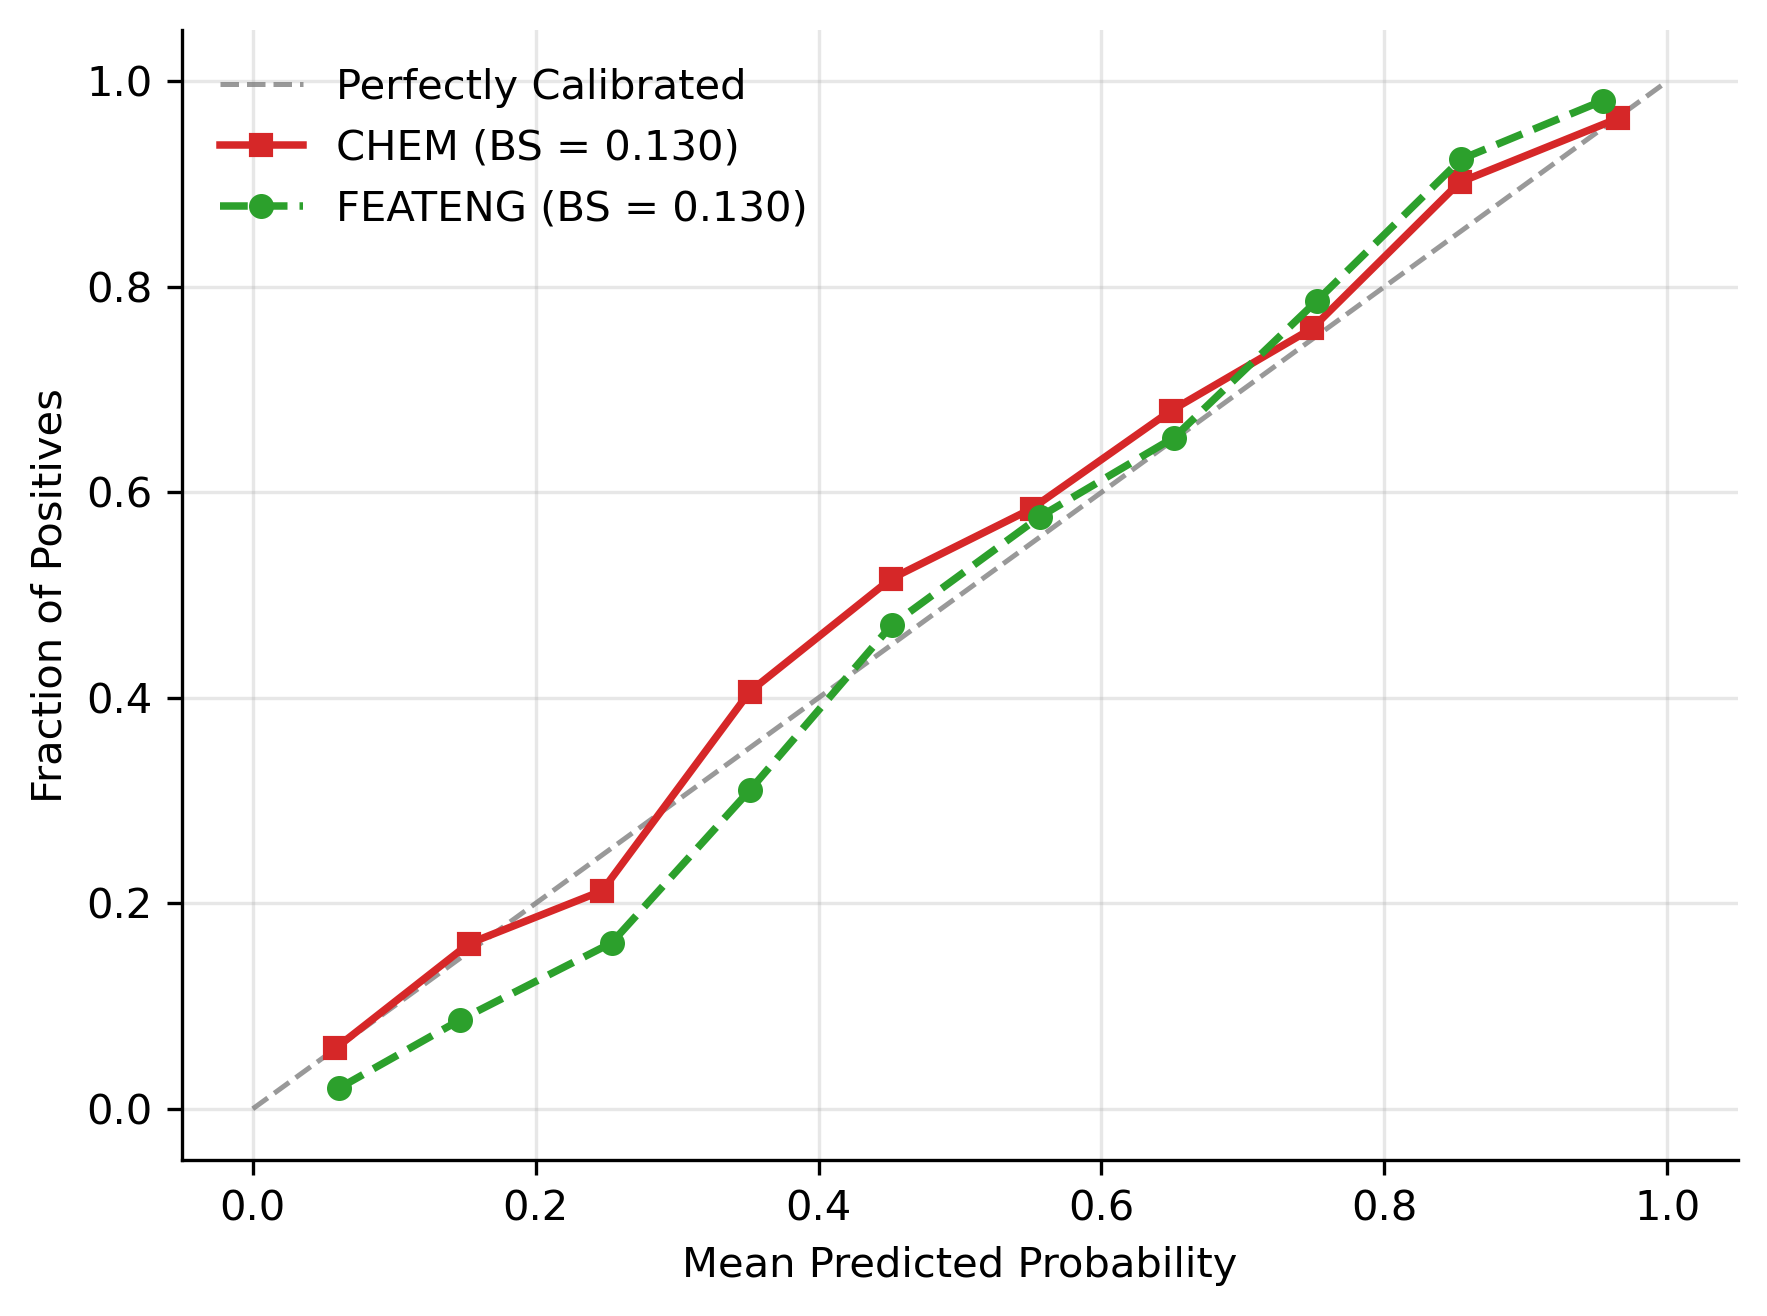
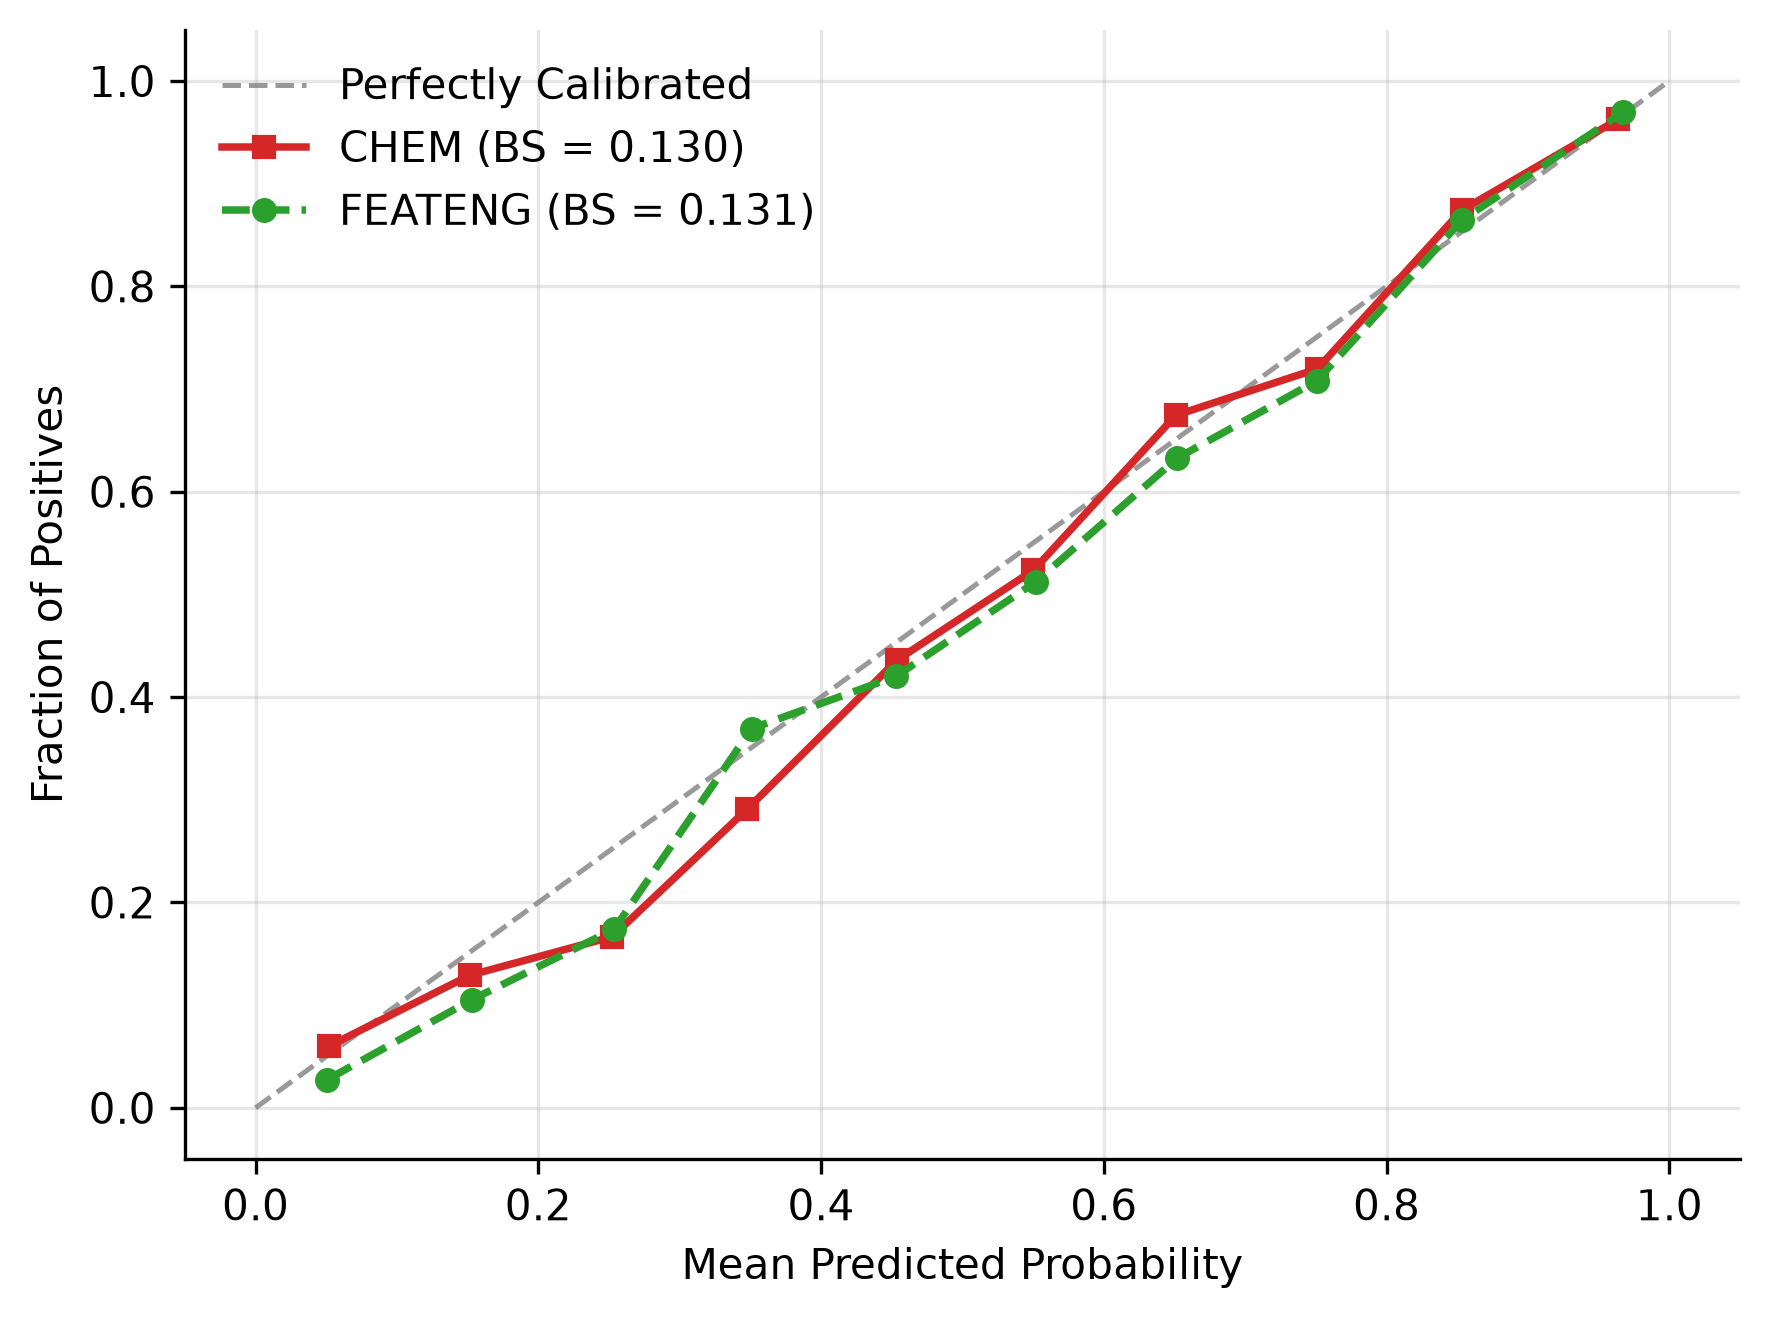
update files after peer review

Changed region(s): [[0.0, 0.0312, 0.996, 0.9658], [0.1556, 0.0623, 0.9338, 0.8412]]

diff --git a/notebooks/8_auc_calibration_plots.py b/notebooks/8_auc_calibration_plots.py
@@ -66,10 +66,10 @@ def compute_ece(y_true, y_prob, n_bins=10):
 #                                     CHEM                                    #
 ###############################################################################
 
-# str = f"./../src/hyperparameters_tunning/GFA_binary_CHEM/model/best_model_binary_unimodal_RF_f1_score_macro_2000_TPESampler.pkl"
-
 model_path_chem = f"./../src/hyperparameters_tunning/GFA_binary_CHEM/model/calibrated_model_binary_unimodal_RF_f1_score_macro_2000_TPESampler.pkl"
+
 if not os.path.exists(model_path_chem):
+    print("Using non-calibrated CHEM model")
     model_path_chem = f"./../src/hyperparameters_tunning/GFA_binary_CHEM/model/best_model_binary_unimodal_RF_f1_score_macro_2000_TPESampler.pkl"
 
 df = pd.read_pickle("./../data/processed/GFA_binary_CHEM.pkl.zip", compression="zip")
@@ -111,7 +111,9 @@ print(f"ECE CHEM test: {ece}")
 ###############################################################################
 
 model_path_feateng = f"./../src/hyperparameters_tunning/GFA_binary_FEATENG/model/calibrated_model_binary_unimodal_RF_f1_score_macro_2000_TPESampler.pkl"
+
 if not os.path.exists(model_path_feateng):
+    print("Using non-calibrated FEATENG model")
     model_path_feateng = f"./../src/hyperparameters_tunning/GFA_binary_FEATENG/model/best_model_binary_unimodal_RF_f1_score_macro_2000_TPESampler.pkl"
 
 df = pd.read_pickle("./../data/processed/GFA_binary_FEATENG.pkl.zip", compression="zip")
@@ -169,7 +171,9 @@ models_data = {
     "FEATENG": y_pred_proba_feateng,
 }
 
-y_test_array = y_test.values.ravel() if hasattr(y_test, "values") else np.asarray(y_test).ravel()
+y_test_array = (
+    y_test.values.ravel() if hasattr(y_test, "values") else np.asarray(y_test).ravel()
+)
 baseline_pos = float(np.mean(y_test_array == 1))
 baseline_neg = float(np.mean(y_test_array == 0))
 baseline_macro = 0.5
@@ -222,11 +226,23 @@ for (name, y_proba), color, ls in zip(models_data.items(), colors, linestyles):
     else:
         y_score_pos = y_proba.ravel()
 
-    precision_pos, recall_pos, _ = precision_recall_curve(y_test_array, y_score_pos, pos_label=1)
+    precision_pos, recall_pos, _ = precision_recall_curve(
+        y_test_array, y_score_pos, pos_label=1
+    )
     ap_pos = average_precision_score(y_test_array, y_score_pos, pos_label=1)
-    ax2.plot(recall_pos, precision_pos, color=color, linestyle=ls, lw=2, label=f"{name}")
+    ax2.plot(
+        recall_pos, precision_pos, color=color, linestyle=ls, lw=2, label=f"{name}"
+    )
 
-ax2.plot([0, 1], [baseline_pos, baseline_pos], color="gray", linestyle="--", lw=1.2, alpha=0.8, label="DUMMY")
+ax2.plot(
+    [0, 1],
+    [baseline_pos, baseline_pos],
+    color="gray",
+    linestyle="--",
+    lw=1.2,
+    alpha=0.8,
+    label="DUMMY",
+)
 ax2.set_xlim([-0.02, 1.02])
 ax2.set_ylim([0.0, 1.05])
 ax2.set_xlabel("Recall")
@@ -253,11 +269,23 @@ for (name, y_proba), color, ls in zip(models_data.items(), colors, linestyles):
     else:
         y_score_neg = 1.0 - y_proba.ravel()
 
-    precision_neg, recall_neg, _ = precision_recall_curve(y_test_array == 0, y_score_neg)
+    precision_neg, recall_neg, _ = precision_recall_curve(
+        y_test_array == 0, y_score_neg
+    )
     ap_neg = average_precision_score(y_test_array == 0, y_score_neg)
-    ax3.plot(recall_neg, precision_neg, color=color, linestyle=ls, lw=2, label=f"{name}")
+    ax3.plot(
+        recall_neg, precision_neg, color=color, linestyle=ls, lw=2, label=f"{name}"
+    )
 
-ax3.plot([0, 1], [baseline_neg, baseline_neg], color="gray", linestyle="--", lw=1.2, alpha=0.8, label="DUMMY")
+ax3.plot(
+    [0, 1],
+    [baseline_neg, baseline_neg],
+    color="gray",
+    linestyle="--",
+    lw=1.2,
+    alpha=0.8,
+    label="DUMMY",
+)
 ax3.set_xlim([-0.02, 1.02])
 ax3.set_ylim([0.0, 1.05])
 ax3.set_xlabel("Recall")
@@ -287,8 +315,12 @@ for (name, y_proba), color, ls in zip(models_data.items(), colors, linestyles):
         y_score_pos = y_proba.ravel()
         y_score_neg = 1.0 - y_proba.ravel()
 
-    precision_pos, recall_pos, _ = precision_recall_curve(y_test_array, y_score_pos, pos_label=1)
-    precision_neg, recall_neg, _ = precision_recall_curve(y_test_array == 0, y_score_neg)
+    precision_pos, recall_pos, _ = precision_recall_curve(
+        y_test_array, y_score_pos, pos_label=1
+    )
+    precision_neg, recall_neg, _ = precision_recall_curve(
+        y_test_array == 0, y_score_neg
+    )
 
     ap_pos = average_precision_score(y_test_array, y_score_pos, pos_label=1)
     ap_neg = average_precision_score(y_test_array == 0, y_score_neg)
@@ -298,9 +330,19 @@ for (name, y_proba), color, ls in zip(models_data.items(), colors, linestyles):
     interp_neg = np.interp(recall_grid, recall_neg[::-1], precision_neg[::-1])
     precision_macro = (interp_pos + interp_neg) / 2.0
 
-    ax4.plot(recall_grid, precision_macro, color=color, linestyle=ls, lw=2, label=f"{name}")
+    ax4.plot(
+        recall_grid, precision_macro, color=color, linestyle=ls, lw=2, label=f"{name}"
+    )
 
-ax4.plot([0, 1], [baseline_macro, baseline_macro], color="gray", linestyle="--", lw=1.2, alpha=0.8, label="DUMMY")
+ax4.plot(
+    [0, 1],
+    [baseline_macro, baseline_macro],
+    color="gray",
+    linestyle="--",
+    lw=1.2,
+    alpha=0.8,
+    label="DUMMY",
+)
 ax4.set_xlim([-0.02, 1.02])
 ax4.set_ylim([0.0, 1.05])
 ax4.set_xlabel("Recall")
@@ -323,7 +365,9 @@ ax4.text(
 plt.tight_layout()
 plt.savefig("model_comparison_curves.png", dpi=300, bbox_inches="tight")
 if os.path.exists("./../reports/figures"):
-    plt.savefig("./../reports/figures/model_comparison_curves.png", dpi=300, bbox_inches="tight")
+    plt.savefig(
+        "./../reports/figures/model_comparison_curves.png", dpi=300, bbox_inches="tight"
+    )
 plt.close()
 
 
@@ -391,5 +435,7 @@ ax.spines["right"].set_visible(False)
 plt.tight_layout()
 plt.savefig("calibration_curve.png", dpi=300, bbox_inches="tight")
 if os.path.exists("./../reports/figures"):
-    plt.savefig("./../reports/figures/calibration_curve.png", dpi=300, bbox_inches="tight")
+    plt.savefig(
+        "./../reports/figures/calibration_curve.png", dpi=300, bbox_inches="tight"
+    )
 plt.close()

diff --git a/src/hyperparameters_tunning/GFA_binary_CHEM/glass_formation_unimodal_CV_RF.py b/src/hyperparameters_tunning/GFA_binary_CHEM/glass_formation_unimodal_CV_RF.py
@@ -15,6 +15,7 @@ from optuna import Trial, create_study
 from sklearn.calibration import CalibratedClassifierCV, calibration_curve
 from sklearn.dummy import DummyClassifier
 from sklearn.ensemble import RandomForestClassifier
+from sklearn.model_selection import StratifiedKFold
 from sklearn.metrics import (
     accuracy_score,
     average_precision_score,
@@ -186,6 +187,7 @@ MAIN_METRIC_SCORE = f1_score
 # MAIN_METRIC_CV = 'f1_macro'
 OPTIMIZER = "TPESampler"  # 'RandomSampler' # 'TPESampler' # 'CmaEsSampler' # 'NSGAIISampler' # 'GridSampler' # 'RandomSampler' # 'TPESampler'
 
+TRAIN_FINAL_MODEL = True
 # TIME_LIMIT_TRIAL = 10 * 60 # 10 min
 
 
@@ -502,6 +504,65 @@ except FileNotFoundError:
 
     joblib.dump(calibrated_model, f"model/{str}.pkl", compress=3)
 
+
+if TRAIN_FINAL_MODEL:
+
+    model_path = f"model/final_calibrated_model_binary_unimodal_RF_{METRIC_NAME}_{N_TRIALS}_{OPTIMIZER}.pkl"
+
+    try:
+        calibrated_model = joblib.load(model_path)
+
+    except FileNotFoundError:
+        cv = StratifiedKFold(n_splits=NUM_FOLD, shuffle=True, random_state=RANDOM_SEED)
+
+        calibrated_model = CalibratedClassifierCV(
+            estimator=create_rf_model(best_trial_model),
+            method="isotonic",
+            cv=cv,
+            ensemble=False,
+            n_jobs=-1,
+        )
+        calibrated_model.fit(X, y)
+
+        joblib.dump(calibrated_model, model_path, compress=3)
+
+    model_path = (
+        f"model/final_model_binary_unimodal_RF_{METRIC_NAME}_{N_TRIALS}_{OPTIMIZER}.pkl"
+    )
+
+    try:
+        _ = joblib.load(model_path)
+
+    except FileNotFoundError:
+
+        best_model_ = create_rf_model(best_trial_model)
+        best_model_.fit(X, y)
+        joblib.dump(best_model_, model_path, compress=3)
+
+
+# if TRAIN_FINAL_MODEL:
+
+#     str = f"final_calibrated_model_binary_unimodal_RF_{METRIC_NAME}_{N_TRIALS}_{OPTIMIZER}"
+
+#     try:
+#         calibrated_model = joblib.load(f"model/{str}.pkl")
+
+#     except FileNotFoundError:
+
+#         base_estimator = create_rf_model(best_trial_model)
+
+#         calibrated_model = CalibratedClassifierCV(
+#             estimator=base_estimator,
+#             method="isotonic",
+#             cv=5,
+#             ensemble=False,
+#             n_jobs=-1,
+#         )
+
+#         calibrated_model.fit(X, y)
+
+#         joblib.dump(calibrated_model, f"model/{str}.pkl", compress=3)
+
 print(f"## Best RF Model (calibrated) - Related to majority class (glass)\n")
 metrics = evaluate_binary_model(calibrated_model, X_test, y_test, classe=1)
 pprint(metrics)
@@ -558,7 +619,7 @@ ece_before = plot_reliability_diagram_and_ece(
     best_model, X_test, y_test, model_name="RF_uncalibrated"
 )
 ece_after = plot_reliability_diagram_and_ece(
-    calibrated_model, X_test, y_test, model_name="RF_calibrated"
+    calibrated_model, X, y, model_name="RF_calibrated"
 )
 
 print()

diff --git a/src/hyperparameters_tunning/GFA_binary_FEATENG/glass_formation_unimodal_CV_RF.py b/src/hyperparameters_tunning/GFA_binary_FEATENG/glass_formation_unimodal_CV_RF.py
@@ -13,6 +13,7 @@ from optuna import create_study
 from sklearn.calibration import CalibratedClassifierCV, calibration_curve
 from sklearn.dummy import DummyClassifier
 from sklearn.ensemble import RandomForestClassifier
+from sklearn.model_selection import StratifiedKFold
 from sklearn.metrics import (
     accuracy_score,
     average_precision_score,
@@ -158,6 +159,8 @@ METRIC_NAME = "f1_score_macro"
 MAIN_METRIC_SCORE = f1_score
 # MAIN_METRIC_CV = 'f1_macro'
 OPTIMIZER = "TPESampler"  # 'RandomSampler' # 'TPESampler' # 'CmaEsSampler' # 'NSGAIISampler' # 'GridSampler' # 'RandomSampler' # 'TPESampler'
+
+TRAIN_FINAL_MODEL = True
 
 # TIME_LIMIT_TRIAL = 10 * 60 # 10 min
 
@@ -473,6 +476,40 @@ except FileNotFoundError:
     calibrated_model.fit(X_train, y_train)
 
     joblib.dump(calibrated_model, f"model/{str}.pkl")
+
+if TRAIN_FINAL_MODEL:
+
+    model_path = f"model/final_calibrated_model_binary_unimodal_RF_{METRIC_NAME}_{N_TRIALS}_{OPTIMIZER}.pkl"
+
+    try:
+        calibrated_model = joblib.load(model_path)
+
+    except FileNotFoundError:
+        cv = StratifiedKFold(n_splits=NUM_FOLD, shuffle=True, random_state=RANDOM_SEED)
+
+        calibrated_model = CalibratedClassifierCV(
+            estimator=create_rf_model(best_trial_model),
+            method="isotonic",
+            cv=cv,
+            ensemble=False,
+            n_jobs=-1,
+        )
+        calibrated_model.fit(X, y)
+
+        joblib.dump(calibrated_model, model_path, compress=3)
+
+    model_path = (
+        f"model/final_model_binary_unimodal_RF_{METRIC_NAME}_{N_TRIALS}_{OPTIMIZER}.pkl"
+    )
+
+    try:
+        _ = joblib.load(model_path)
+
+    except FileNotFoundError:
+
+        best_model_ = create_rf_model(best_trial_model)
+        best_model_.fit(X, y)
+        joblib.dump(best_model_, model_path, compress=3)
 
 print(f"## Best RF Model (calibrated) - Related to majority class (glass)\n")
 metrics = evaluate_binary_model(calibrated_model, X_test, y_test, classe=1)
